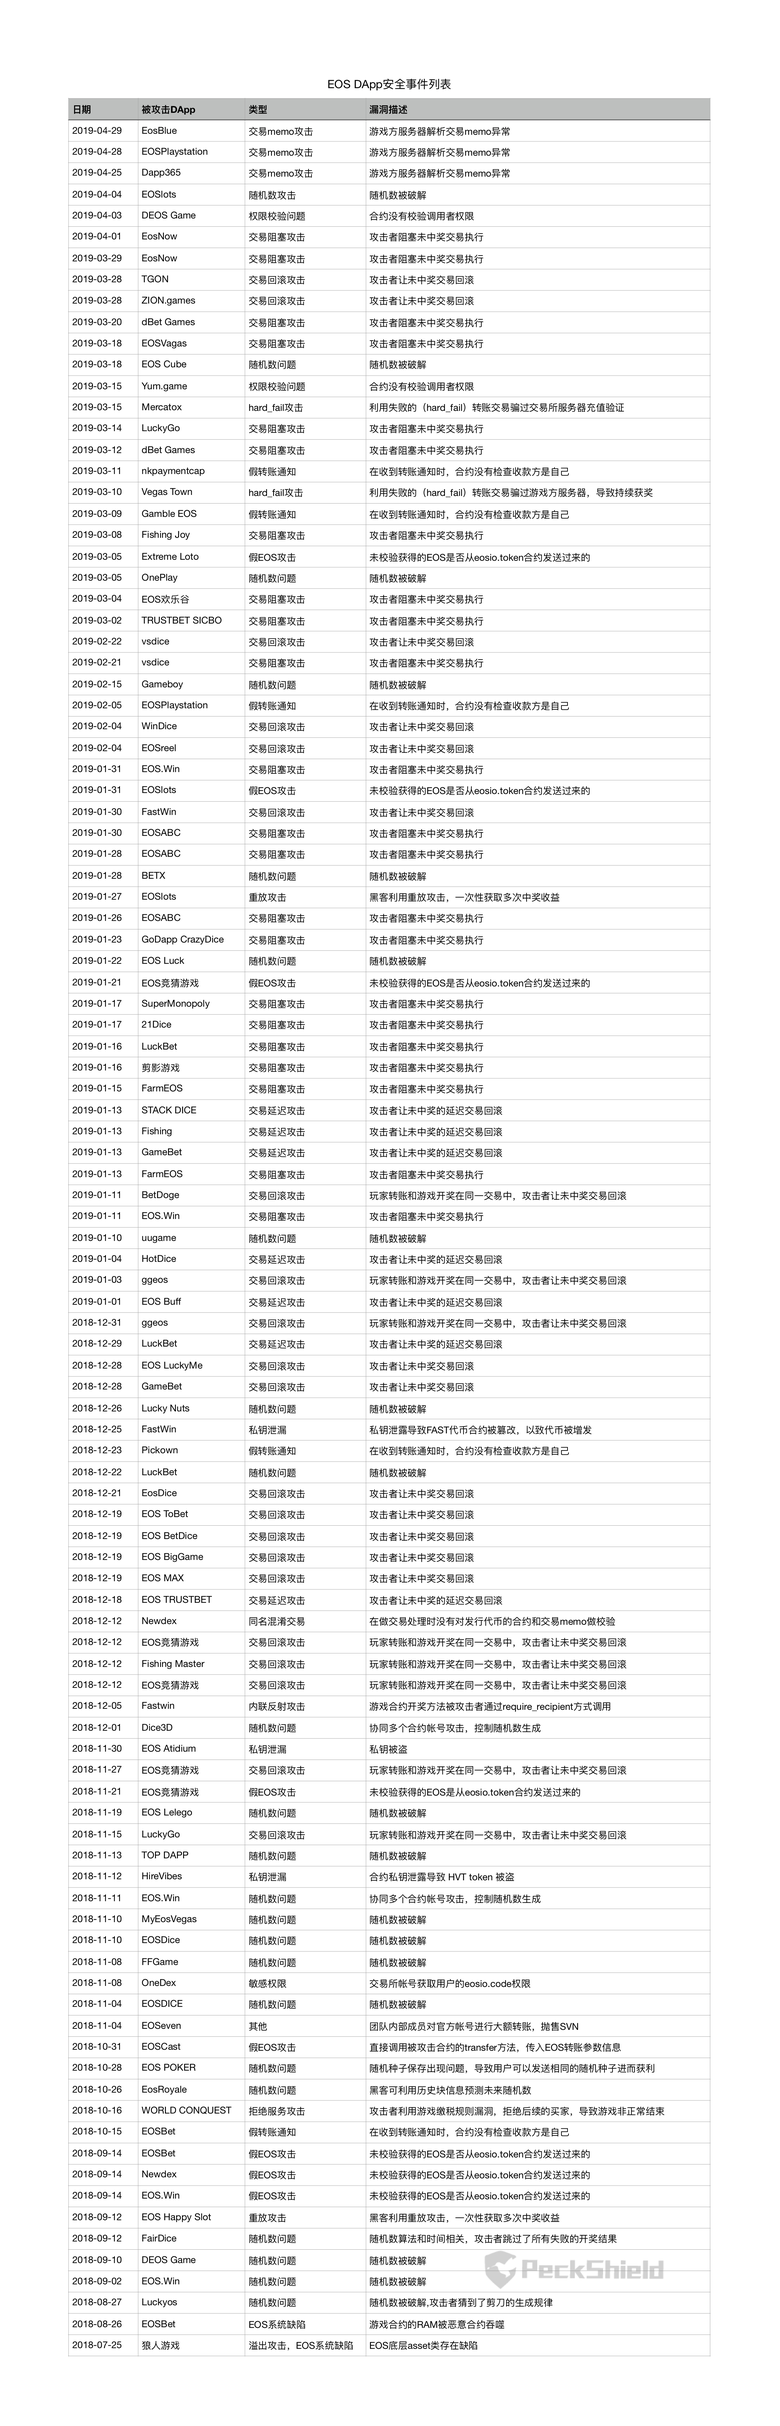
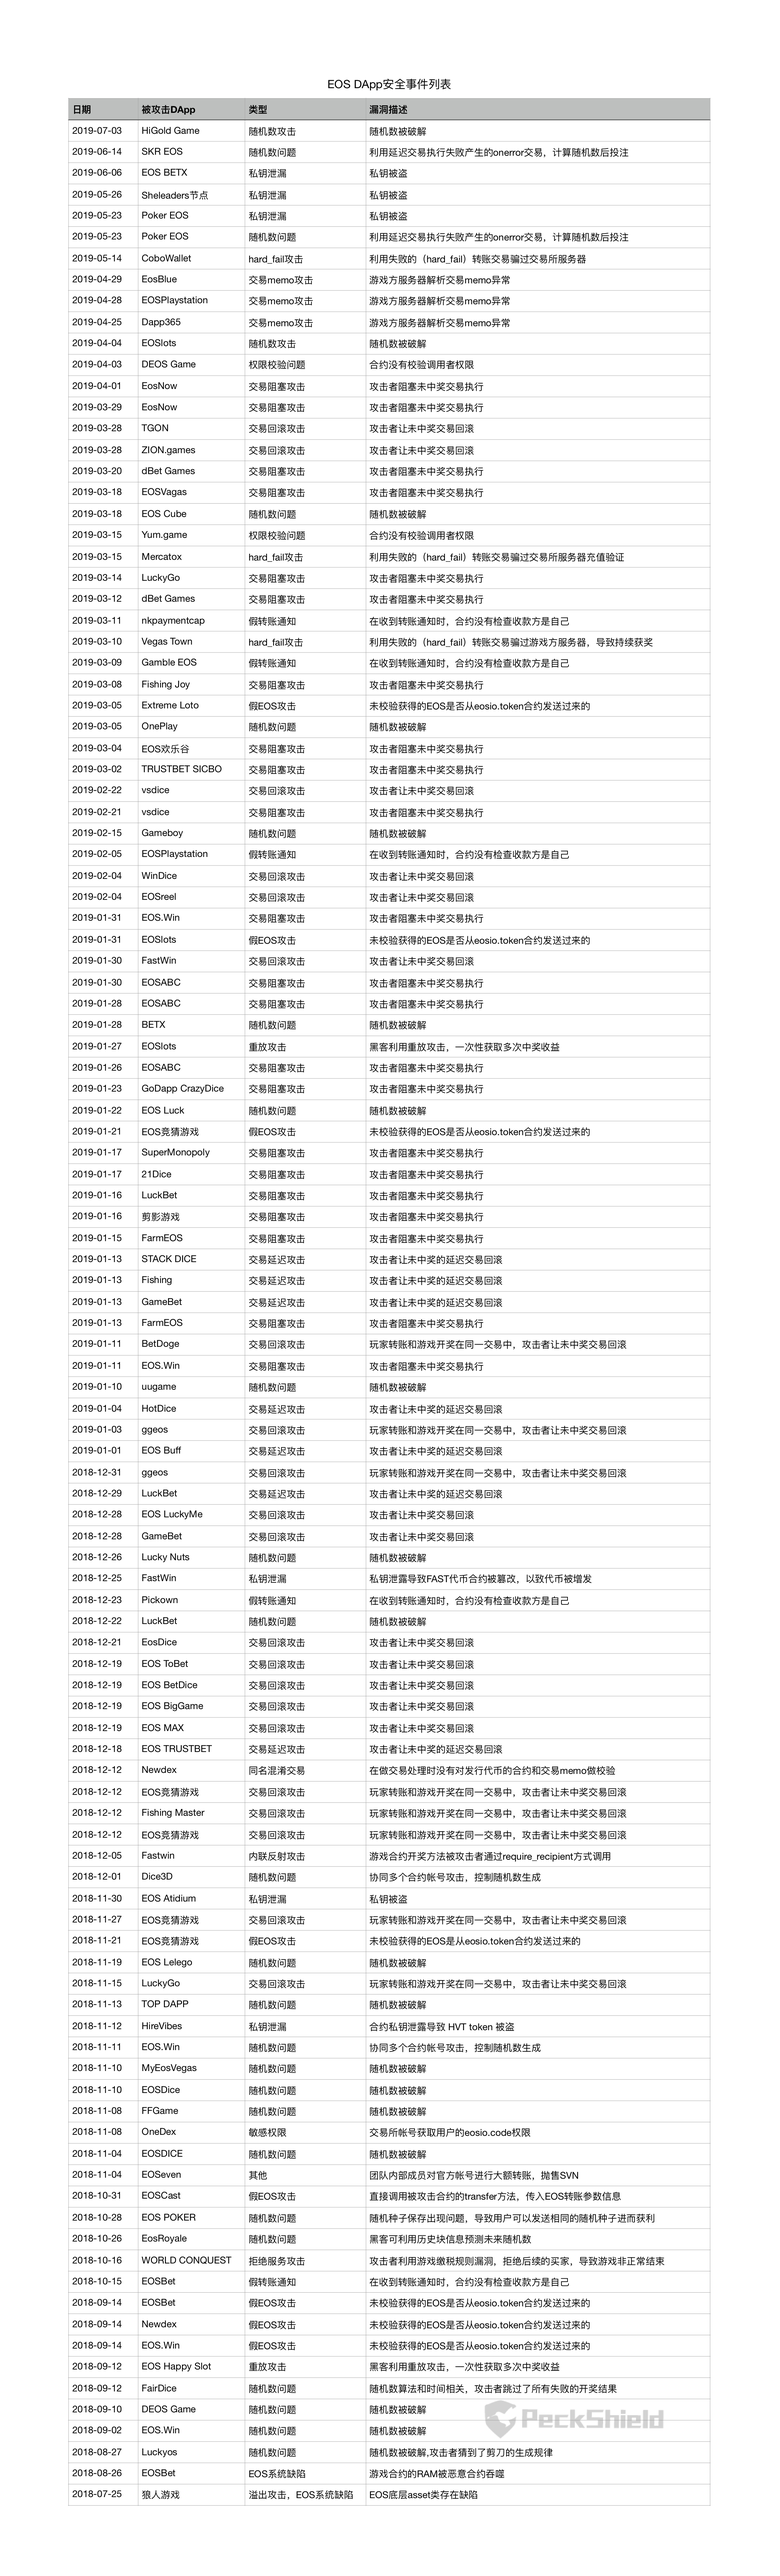
upate 2019-07-31

Changed region(s): [[0.0936, 0.0312, 0.9051, 0.9686]]

diff --git a/known_dapp_attacks/README.md b/known_dapp_attacks/README.md
@@ -3,14 +3,18 @@
 本文档根据发生的EOS DApp安全事件不定期更新，旨在记录EOS主网上线以来发生的各类DApp安全事件，供大家参考，同时欢迎大家对该文档提出建议及指正，以完善文档，一起促进EOS的生态健康发展。
 
 ## 概要
-截至2019年04月30日，共发生105起DApp安全事件，共损失超过90万个EOS
+截至2019年07月31日，共发生112起DApp安全事件，共损失近93万个EOS
 ![EOS DApp安全事件概要](dapp_attacks_summary.jpg)
 
 ## EOS DApp安全事件列表
-截至2019年04月30日的安全事件列表：
+截至2019年07月31日的安全事件列表：
 ![EOS DApp安全事件列表](eos_dapp_attacks.png)
 
 ## EOS DApp安全事件历史版本
+[EOS DApp安全事件_2019-07-01](https://github.com/peckshield/EOS/blob/master/known_dapp_attacks/eos_dapp_attacks/eos_know_dapp_attacks_2019_07_01.md)
+
+[EOS DApp安全事件_2019-06-01](https://github.com/peckshield/EOS/blob/master/known_dapp_attacks/eos_dapp_attacks/eos_know_dapp_attacks_2019_06_01.md)
+
 [EOS DApp安全事件_2019-05-01](https://github.com/peckshield/EOS/blob/master/known_dapp_attacks/eos_dapp_attacks/eos_know_dapp_attacks_2019_05_01.md)
 
 [EOS DApp安全事件_2019-04-01](https://github.com/peckshield/EOS/blob/master/known_dapp_attacks/eos_dapp_attacks/eos_know_dapp_attacks_2019_04_01.md)

diff --git a/known_dapp_attacks/eos_dapp_attacks/eos_know_dapp_attacks_2019_06_01.md b/known_dapp_attacks/eos_dapp_attacks/eos_know_dapp_attacks_2019_06_01.md
@@ -1,0 +1,11 @@
+# EOS DApp安全事件
+
+本文档每月初更新，旨在记录EOS主网上线以来发生的各类DApp安全事件，供大家参考，同时欢迎大家对该文档提出建议及指正，以完善文档，一起促进EOS的生态健康发展。
+
+## 概要
+截至2019年05月31日，共发生超过109起DApp安全事件，共损失近93万个EOS
+<div align=center><img src="https://github.com/peckshield/EOS/blob/master/known_dapp_attacks/dapp_attacks_summary/dapp_attacks_summary_2019-06-01.jpg" alt="DApp安全事件数"/></div>
+
+## EOS DApp安全事件列表
+截至2019年05月31日的安全事件列表：
+![EOS DApp安全事件列表](eos_dapp_attacks_2019_06_01.png)

diff --git a/known_dapp_attacks/eos_dapp_attacks/eos_know_dapp_attacks_2019_07_01.md b/known_dapp_attacks/eos_dapp_attacks/eos_know_dapp_attacks_2019_07_01.md
@@ -1,0 +1,11 @@
+# EOS DApp安全事件
+
+本文档每月初更新，旨在记录EOS主网上线以来发生的各类DApp安全事件，供大家参考，同时欢迎大家对该文档提出建议及指正，以完善文档，一起促进EOS的生态健康发展。
+
+## 概要
+截至2019年06月30日，共发生超过111起DApp安全事件，共损失近93万个EOS
+<div align=center><img src="https://github.com/peckshield/EOS/blob/master/known_dapp_attacks/dapp_attacks_summary/dapp_attacks_summary_2019-07-01.jpg" alt="DApp安全事件数"/></div>
+
+## EOS DApp安全事件列表
+截至2019年06月30日的安全事件列表：
+![EOS DApp安全事件列表](eos_dapp_attacks_2019_07_01.png)
